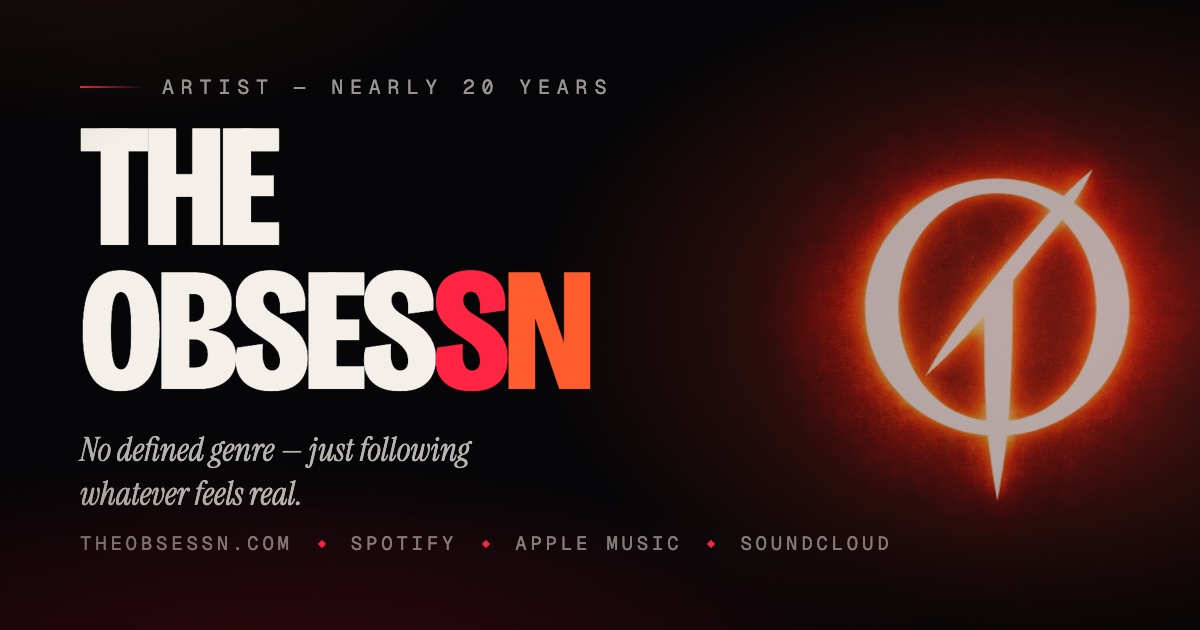
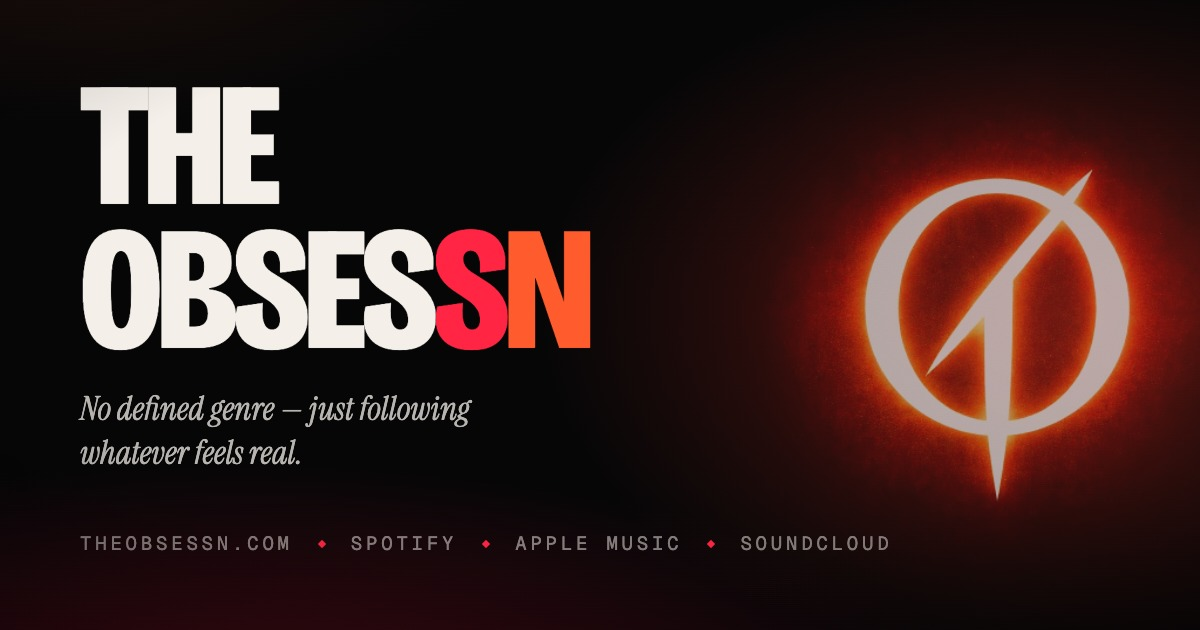
content: regenerate the social card without the written eyebrow
assets/og.jpg still read "ARTIST — NEARLY 20 YEARS" — the same written copy
that came off the site — and that image is what every share, link preview and
message unfurl shows, so the rejected line was still the first thing anyone saw
of the site. Removed from tools/og-card.html (the generator) along with its now
dead .eyebrow rules, and the card re-rendered at exactly 1200x630 to match the
og:image:width/height it declares.

The card now carries only the wordmark, the artist's own line and the platform
strip. Composition improved as a side effect: with the eyebrow gone the flex
column has two children instead of three, so the wordmark anchors the top and
the platform strip the bottom.

og.jpg 112KB -> 77KB. Verified the render used the real Bricolage face rather
than the metric fallback, and that the dimensions still match the meta.

Changed region(s): [[0.0617, 0.2714, 0.4933, 0.8143], [0.0617, 0.1206, 0.2467, 0.2413], [0.2775, 0.1206, 0.5242, 0.1508]]

diff --git a/tools/og-card.html b/tools/og-card.html
@@ -34,12 +34,6 @@
     mask-image:radial-gradient(circle at 50% 50%,#000 44%,transparent 72%);
   }
   .mark img{width:100%;height:100%;filter:saturate(1.3) contrast(1.1)}
-  .eyebrow{
-    position:relative;display:flex;align-items:center;gap:18px;
-    font-family:'Geist Mono',monospace;font-size:20px;letter-spacing:.34em;
-    text-transform:uppercase;color:rgba(244,239,233,.6);
-  }
-  .eyebrow::before{content:'';width:64px;height:2px;background:linear-gradient(90deg,#ff2442,transparent)}
   .wm{
     position:relative;font-family:'Bricolage Grotesque',sans-serif;font-weight:800;
     font-variation-settings:'wdth' 78,'opsz' 96;font-size:176px;line-height:.82;
@@ -67,8 +61,7 @@
 <body>
 <div class="card">
   <div class="mark"><img src="../assets/logo-512.webp" alt=""></div>
-  <p class="eyebrow">Artist — Nearly 20 Years</p>
-  <div>
+    <div>
     <h1 class="wm">The<br>Obses<b>S</b><b class="e">N</b></h1>
     <p class="lede">No defined genre — just following whatever feels real.</p>
   </div>
